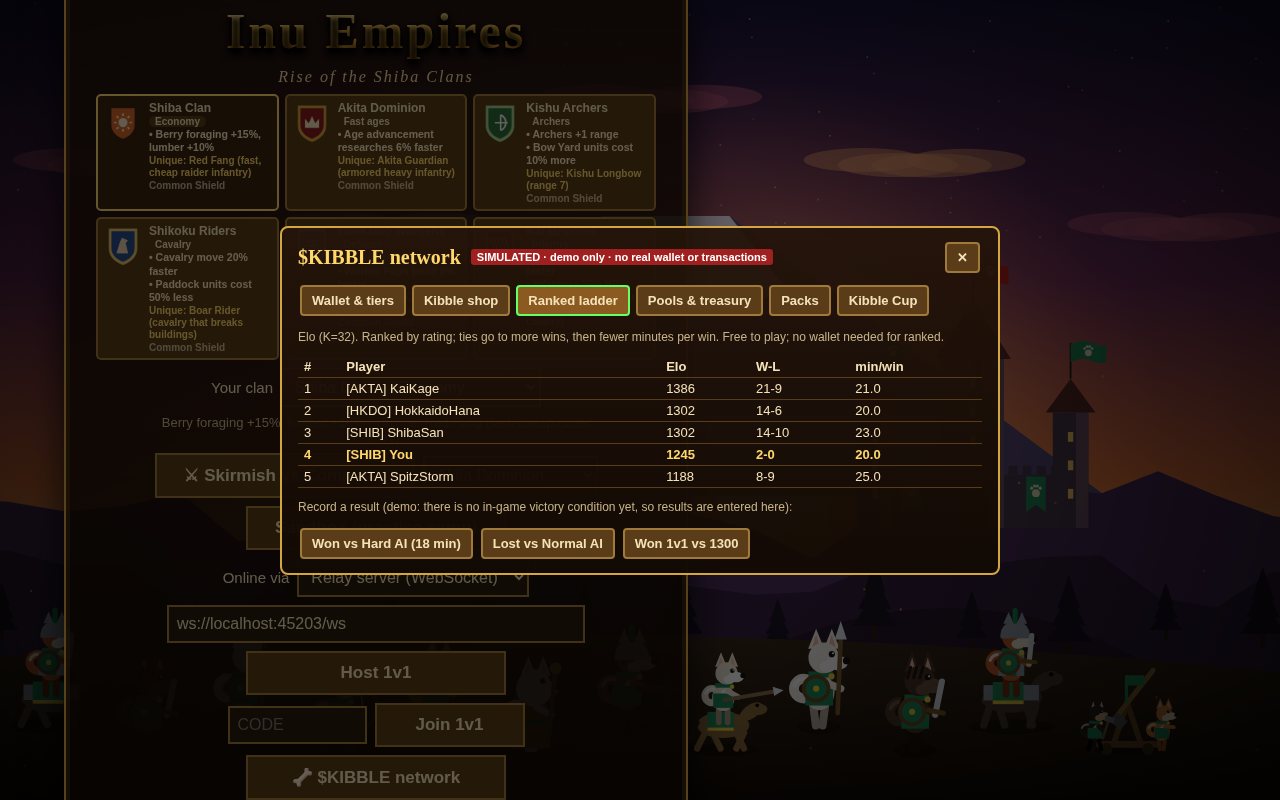
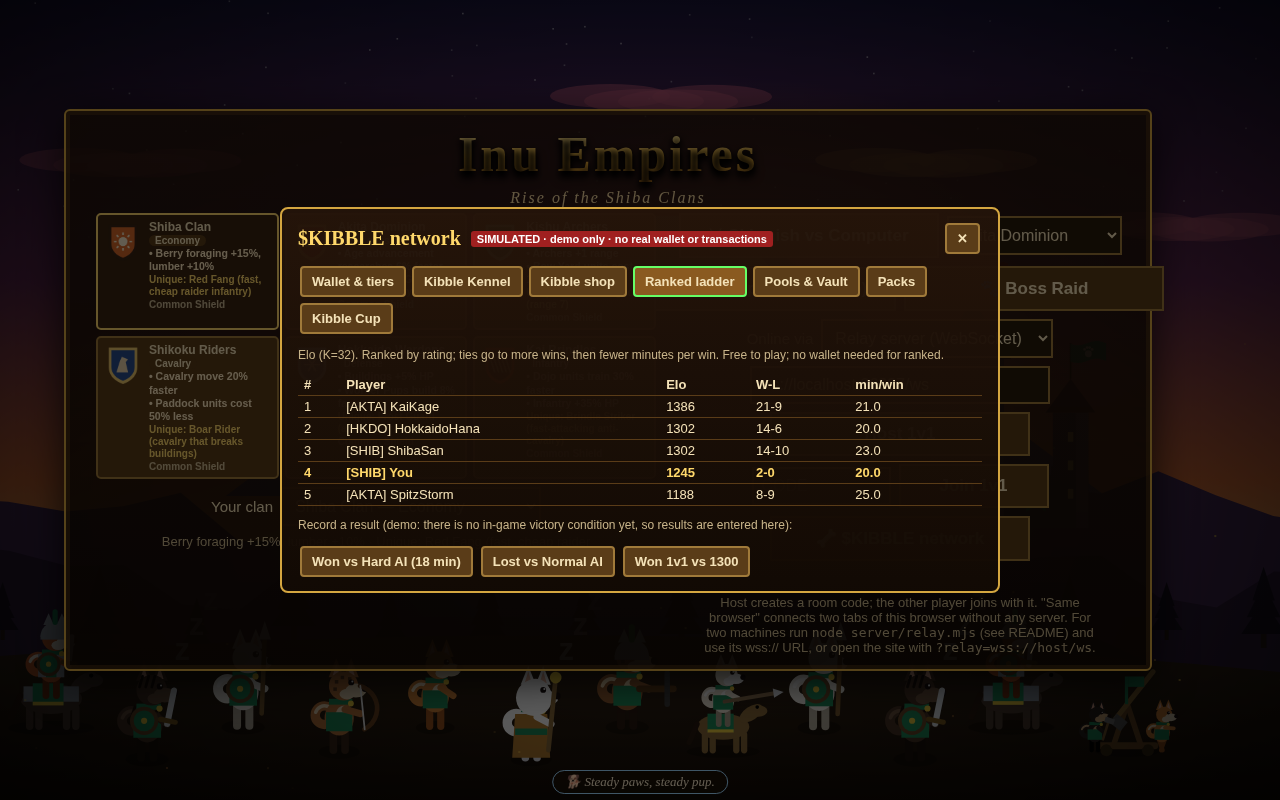
Wallet names: President's Vault (BzLY…TNGJ, Solscan link, new tab, rel=noopener) replaces 'President's treasury' wording in the shop, pools tab, ledger and buy note; Kennel Chest named in tests. Addresses unchanged. Proof: npm test all pass (kibble 26/26), run kibble 11/11

diff --git a/src/kibble-ui.js b/src/kibble-ui.js
@@ -20,30 +20,30 @@ function apply() { const c = K.COSMETICS[s.equipped.colour]; if (c && c.value) T
 const period = () => { const d = new Date(); return { day: d.toISOString().slice(0, 10), month: d.toISOString().slice(0, 7) }; };
 function render() {
   const tr = K.tier(s), tab = $('kb').dataset.tab || 'wallet', B = (a, l, dis = false) => `<button data-k="${a}" ${dis ? 'disabled' : ''}>${l}</button>`;
-  const tabs = ['wallet', 'kennel', 'shop', 'ladder', 'pools', 'packs', 'cup'].map(t => `<button class="kt${t === tab ? ' on' : ''}" data-tab="${t}">${{ wallet: 'Wallet & tiers', kennel: 'Kibble Kennel', shop: 'Kibble shop', ladder: 'Ranked ladder', pools: "Pools & treasury", packs: 'Packs', cup: 'Kibble Cup' }[t]}</button>`).join('');
+  const tabs = ['wallet', 'kennel', 'shop', 'ladder', 'pools', 'packs', 'cup'].map(t => `<button class="kt${t === tab ? ' on' : ''}" data-tab="${t}">${{ wallet: 'Wallet & tiers', kennel: 'Kibble Kennel', shop: 'Kibble shop', ladder: 'Ranked ladder', pools: "Pools & Vault", packs: 'Packs', cup: 'Kibble Cup' }[t]}</button>`).join('');
   let body = '';
   if (tab === 'wallet') body = `<p>${s.wallet ? `Connected <code>${s.wallet.address}</code> ${REAL ? '(Phantom, signed in)' : '(demo wallet, nothing on-chain)'}` : REAL ? 'Not connected. Connect Phantom to save your progress to your wallet, use your $KIBBLE cosmetics and get your holder tier.' : 'Not connected.'}</p>
     <p>Balance: <b>${K.fmtK(s.kibbleU)} $KIBBLE</b> ${REAL ? '(on-chain)' : '(demo)'} · Tier: <b id="kb-tier">${tr.name}</b> · Bones (free, never cashed out): ${s.bones}</p>
     ${s.wallet ? B('disconnect', 'Disconnect') : B('connect', REAL ? '🔗 Connect Wallet (Phantom)' : 'Connect wallet (simulated)')}
     <p class="kh">Tiers: ${K.TIERS.slice(1).map(t => `${t.name} ≥ ${t.min.toLocaleString()}`).join(' · ')}. Tiers unlock cosmetics only: skins, banners, team colours, titles. Never stats, resources or build speed.</p>
     <div class="kgrid">${Object.entries(K.COSMETICS).filter(([, c]) => !c.price).map(([id, c]) => `<button data-eq="${id}" ${K.canUse(s, id) ? '' : 'disabled'} class="${s.equipped[c.kind] === id ? 'on' : ''}">${c.name}<small>${c.kind} · ${c.tier === 'none' ? 'free' : c.tier}</small></button>`).join('')}</div>`;
-  if (tab === 'shop') body = `<p class="kh">2% fee on every purchase: 1% to the President's treasury, 0.25% daily, 0.5% weekly, 0.25% monthly prize pools.</p><div class="kgrid">${K.SHOP.map(id => { const c = K.COSMETICS[id], q = K.feeSplit(K.toU(c.price)), own = s.owned.includes(id);
+  if (tab === 'shop') body = `<p class="kh">2% fee on every purchase: 1% to the President's Vault (${K.vaultLink()}), 0.25% daily, 0.5% weekly, 0.25% monthly prize pools.</p><div class="kgrid">${K.SHOP.map(id => { const c = K.COSMETICS[id], q = K.feeSplit(K.toU(c.price)), own = s.owned.includes(id);
     return `<div class="kitem"><b>${c.name}</b><small>${c.price} + ${K.fmtK(q.fee)} fee = ${K.fmtK(q.total)} $KIBBLE${c.tier !== 'none' ? ` · ${c.tier}+` : ''}</small>${own ? `<button data-eq="${id}" class="${s.equipped.skin === id ? 'on' : ''}">${s.equipped.skin === id ? 'Equipped' : 'Equip'}</button>` : `<button data-buy="${id}">${REAL ? 'Buy' : 'Buy (simulated)'}</button>`}</div>`; }).join('')}</div><div id="kb-msg"></div>`;
-  if (tab === 'shop' && REAL) body = `<p class="kh">Real $KIBBLE via Phantom. Prices include the 2% split (1% President's treasury, 1% prize pools). Cosmetic only: no stats, resources or build speed.</p><div class="kgrid">${K.SHOP.map(id => { const c = K.COSMETICS[id], own = s.owned.includes(id);
+  if (tab === 'shop' && REAL) body = `<p class="kh">Real $KIBBLE via Phantom. Prices include the 2% split (1% President's Vault ${K.vaultLink()}, 1% prize pools). Cosmetic only: no stats, resources or build speed.</p><div class="kgrid">${K.SHOP.map(id => { const c = K.COSMETICS[id], own = s.owned.includes(id);
     return `<div class="kitem"><b>${c.name}</b><small>${Number(c.price).toLocaleString()} $KIBBLE${c.tier !== 'none' ? ` · ${c.tier}+` : ''}</small>${own ? `<button data-eq="${id}" class="${s.equipped[c.kind] === id ? 'on' : ''}">${s.equipped[c.kind] === id ? 'Equipped' : 'Equip'}</button>` : `<button data-buy="${id}">Buy</button>`}</div>`; }).join('')}</div><div id="kb-msg"></div>`;
   if (tab === 'ladder') { const rows = K.rank([s.me, ...K.RIVALS]);
     body = `<p class="kh">Elo (K=${K.K}). Ranked by rating; ties go to more wins, then fewer minutes per win. Free to play; no wallet needed for ranked.</p>
     <table><tr><th>#</th><th>Player</th><th>Elo</th><th>W-L</th><th>min/win</th></tr>${rows.map((p, i) => `<tr class="${p === s.me ? 'me' : ''}"><td>${i + 1}</td><td>[${p.pack}] ${p.name}</td><td>${p.rating}</td><td>${p.wins}-${p.losses}</td><td>${p.wins ? (p.minutesWon / p.wins).toFixed(1) : '-'}</td></tr>`).join('')}</table>
     <p class="kh">Record a result (demo: there is no in-game victory condition yet, so results are entered here):</p>${B('win-ai', 'Won vs Hard AI (18 min)')} ${B('loss-ai', 'Lost vs Normal AI')} ${B('win-1v1', 'Won 1v1 vs 1300')}`; }
-  if (tab === 'pools' && REAL) body = `<div class="ktreasury"><b>President's treasury</b> (${K.OWNER.name})<br><code id="kb-owner">${K.OWNER_WALLET}</code></div>
+  if (tab === 'pools' && REAL) body = `<div class="kvault"><b>President's Vault</b> (${K.OWNER.name}, creator share)<br>${K.vaultLink(K.OWNER_WALLET, 'kb-owner')}</div>
     <p>Live prize pools shared by all Inu games (from shop fees): ${serverPools ? ['daily', 'weekly', 'monthly'].map(p => `${p} ${K.fmtK(Number(serverPools[p].accruedBaseUnits))}`).join(' · ') + ' $KIBBLE' : 'loading…'}</p>
     <p class="kh">Paid by leaderboard rank (top 3: 50/30/20). No random draws, no wagering, no paid entry. <a href="${API}/pools" target="_blank" rel="noopener">Public pools page ↗</a></p>`;
-  else if (tab === 'pools') body = `<div class="ktreasury"><b>President's treasury</b> (${K.OWNER.name})<br><code id="kb-owner">${K.OWNER_WALLET}</code><br>Simulated balance: ${K.fmtK(s.treasuryU)} $KIBBLE. Display only: no transfers are made.</div>
+  else if (tab === 'pools') body = `<div class="kvault"><b>President's Vault</b> (${K.OWNER.name}, creator share)<br>${K.vaultLink(K.OWNER_WALLET, 'kb-owner')}<br>Simulated balance: ${K.fmtK(s.treasuryU)} $KIBBLE. Display only: no transfers are made.</div>
     <p>Prize pools (simulated, local stub; shared state with Inu Verse needs the backend, as the two games run on different domains):</p>
     <p>Daily ${K.fmtK(s.pools.daily)} · Weekly ${K.fmtK(s.pools.weekly)} · Monthly ${K.fmtK(s.pools.monthly)} $KIBBLE</p>
     <p class="kh">Paid by ladder rank (top 3: 50/30/20). No random draws, no wagering, no paid entry.</p>${B('pay-daily', 'Close daily period (demo)')} ${B('pay-weekly', 'Close weekly')} ${B('pay-monthly', 'Close monthly')}
     <ul>${s.payouts.slice(0, 5).map(p => `<li>${p.pool}: ${p.winners.map(w => `${w.name} ${K.fmtK(w.amountU)}`).join(', ')}</li>`).join('')}</ul>
-    <ul class="kh">${s.ledger.slice(0, 5).map(l => `<li>${l.item}: fee ${K.fmtK(l.fee)} → treasury ${K.fmtK(l.owner)}, pools ${K.fmtK(l.daily)}/${K.fmtK(l.weekly)}/${K.fmtK(l.monthly)}</li>`).join('')}</ul>`;
+    <ul class="kh">${s.ledger.slice(0, 5).map(l => `<li>${l.item}: fee ${K.fmtK(l.fee)} → President's Vault ${K.fmtK(l.owner)}, pools ${K.fmtK(l.daily)}/${K.fmtK(l.weekly)}/${K.fmtK(l.monthly)}</li>`).join('')}</ul>`;
   if (tab === 'packs') { const pk = { ...Object.fromEntries(K.RIVALS.map(r => [r.pack, 0])), ...s.packs };
     body = `<p>Your pack tag: <input id="kb-pack" maxlength="4" size="5" value="${s.me.pack}"> ${B('set-pack', 'Set')} · Name: <input id="kb-name" maxlength="14" size="12" value="${s.me.name}"></p><p class="kh">Pack tags show on names. Each ranked win earns your pack ${K.PACK_POINTS_PER_WIN} pack points.</p>
     <table><tr><th>Pack</th><th>Points</th></tr>${Object.entries(pk).sort((a, b) => b[1] - a[1]).map(([p, v]) => `<tr><td>[${p}]</td><td>${v}</td></tr>`).join('')}</table>`; }
@@ -71,7 +71,7 @@ export function initKibble() {
     else if (k === 'set-pack') { s.me.pack = ($('kb-pack').value.toUpperCase().replace(/[^A-Z0-9]/g, '') || 'SHIB').slice(0, 4); s.me.name = ($('kb-name').value.trim() || 'You').slice(0, 14); }
     if (b.dataset.eq) K.equip(s, b.dataset.eq);
     let note = '';
-    if (b.dataset.buy) { const r = K.buy(s, b.dataset.buy); note = r.ok ? `Bought (simulated). Fee ${K.fmtK(r.q.fee)}: ${K.fmtK(r.q.owner)} to treasury, ${K.fmtK(r.q.daily + r.q.weekly + r.q.monthly)} to pools.` : r.reason; }
+    if (b.dataset.buy) { const r = K.buy(s, b.dataset.buy); note = r.ok ? `Bought (simulated). Fee ${K.fmtK(r.q.fee)}: ${K.fmtK(r.q.owner)} to the President's Vault, ${K.fmtK(r.q.daily + r.q.weekly + r.q.monthly)} to pools.` : r.reason; }
     if (k === 'cup') { const r = K.joinCup(s, period().month); note = r.ok ? 'Entered (free).' : r.reason; }
     save(); apply(); render(); if (note) msg(note); });
   $('kb').addEventListener('input', kennelInput);

diff --git a/index.html b/index.html
@@ -122,7 +122,7 @@ body.ingame #quickbar{display:flex}
 .khead{display:flex;gap:10px;align-items:center}.khead b{font:bold 20px Georgia,serif;color:#ffd86b}.ksim{background:#a02020;color:#fff;font:bold 11px sans-serif;padding:2px 6px;border-radius:3px}#kb-close{margin-left:auto}
 .kpanel button{font:bold 13px sans-serif;padding:6px 10px;background:#5a3c18;color:#f4e2b8;border:2px solid #a07a3a;border-radius:4px;cursor:pointer;margin:2px}.kpanel button:disabled{opacity:.45}.kpanel button.on{border-color:#6f6}
 .ktabs{display:flex;flex-wrap:wrap;gap:2px;margin:8px 0}.kt.on{background:#8a5a20}.kh{font-size:12px;color:#c8b48a}.kgrid{display:flex;flex-wrap:wrap;gap:6px}.kgrid small,.kitem small{display:block;font-weight:normal;font-size:10px;color:#c8b48a}
-.kitem{background:#2a1c0c;border:1px solid #a07a3a;padding:6px;width:200px}.ktreasury{background:#2a1c0c;border:1px solid #d4a640;padding:8px;font-size:13px}.ktreasury code{color:#ffd86b;word-break:break-all}
+.kitem{background:#2a1c0c;border:1px solid #a07a3a;padding:6px;width:200px}.kvault{background:#2a1c0c;border:1px solid #d4a640;padding:8px;font-size:13px}.kvault a{color:#ffd86b}
 .kpanel table{border-collapse:collapse;width:100%;font-size:13px}.kpanel td,.kpanel th{border-bottom:1px solid #5a3c18;padding:3px 6px;text-align:left}.kpanel tr.me{color:#ffd86b;font-weight:bold}
 .kennel .kn-flair{font:bold 12px sans-serif;margin-left:6px;padding:1px 6px;border:1px solid #c9a24a;border-radius:10px;color:#ffe9a8;background:#3a2a10;vertical-align:middle}.kn-step{margin:4px 0}.kn-step small{display:block;font-size:12px;color:#e9d9b4}.kn-bar{height:8px;background:#0006;border:1px solid #5a3c18;border-radius:4px;overflow:hidden}.kn-bar i{display:block;height:100%;background:linear-gradient(90deg,#b8733a,#e8b830)}.kn-streaks{display:grid;grid-template-columns:repeat(4,1fr);gap:4px;margin:4px 0}.kn-st{background:#0003;border:1px solid #5a3c18;border-radius:4px;padding:3px 4px;font-size:11px;display:flex;flex-direction:column;gap:2px}.kn-st small{font-size:10px;color:#c8b48a}.kn-st.on{border-color:#7f7}.kn-st.on b{color:#7f7}.kn-item.flair{opacity:.75}
 .kn-head{display:flex;gap:10px;align-items:center;flex-wrap:wrap}.kn-tier{font:bold 18px Georgia,serif;padding:4px 12px;border-radius:6px;border:2px solid #7a6040;background:#2a1a0a}.kn-pup{border-color:#b8733a;color:#e3a868}.kn-guard{border-color:#a9b4c2;color:#eef3f8}.kn-alpha{border-color:#5fd8ff;color:#bff8ff}.kn-top{border-color:#e8b830;color:#fff0a0;box-shadow:0 0 10px #e8b83088}

diff --git a/src/kibble.js b/src/kibble.js
@@ -8,9 +8,12 @@ import { COSMETICS as CIV_COSMETICS } from './civs.js';
 // Demo (?demo=1): the original fully simulated wallet below. Ladder, packs and Cup stay local stubs in both modes.
 export const SIMULATED = (() => { try { return new URLSearchParams(location.search).get('demo') === '1'; } catch { return false; } })();
 export const U = 1_000_000;
-export const OWNER = { name: 'President Inu', title: "President's treasury" };
-export const OWNER_WALLET = 'BzLYTFAfUsjzQ5x8bx5BbPK4DFtaHrLCuferkvkxTNGJ'; // Solana receive address, display only (simulated: no transfers)
-export const FEE_BPS = { owner: 100, daily: 25, weekly: 50, monthly: 25 }; // 2% total: 1% treasury, 0.25/0.5/0.25% pools
+export const OWNER = { name: 'President Inu', title: "President's Vault" }; // public name of the creator-share wallet
+export const OWNER_WALLET = 'BzLYTFAfUsjzQ5x8bx5BbPK4DFtaHrLCuferkvkxTNGJ'; // President's Vault: Solana receive address, display only (simulated: no transfers)
+export const shortAddr = a => `${a.slice(0, 4)}…${a.slice(-4)}`;
+export const solscan = a => `https://solscan.io/account/${a}`;
+export const vaultLink = (a = OWNER_WALLET, id = '') => `<a${id ? ` id="${id}"` : ''} href="${solscan(a)}" target="_blank" rel="noopener" title="${a}">${shortAddr(a)} ↗</a>`;
+export const FEE_BPS = { owner: 100, daily: 25, weekly: 50, monthly: 25 }; // 2% total: 1% President's Vault, 0.25/0.5/0.25% pools
 export const FEE_TOTAL_BPS = 200;
 export const toU = k => Math.round(k * U);
 export const fmtK = u => (u / U).toLocaleString('en-US', { maximumFractionDigits: 6 });
